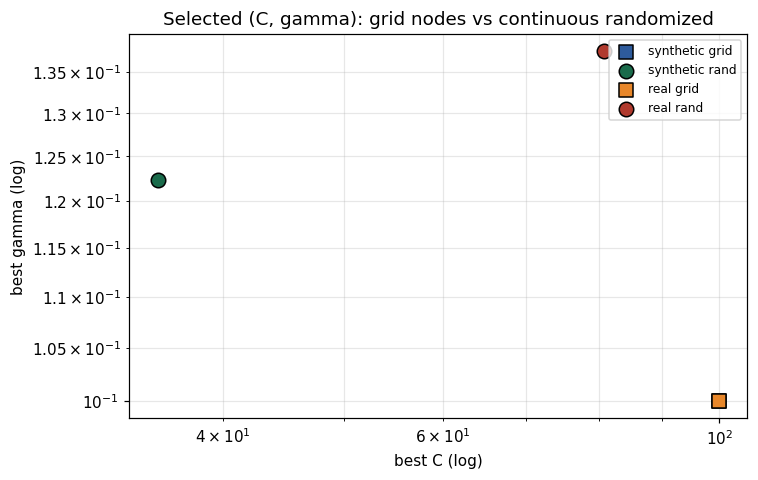
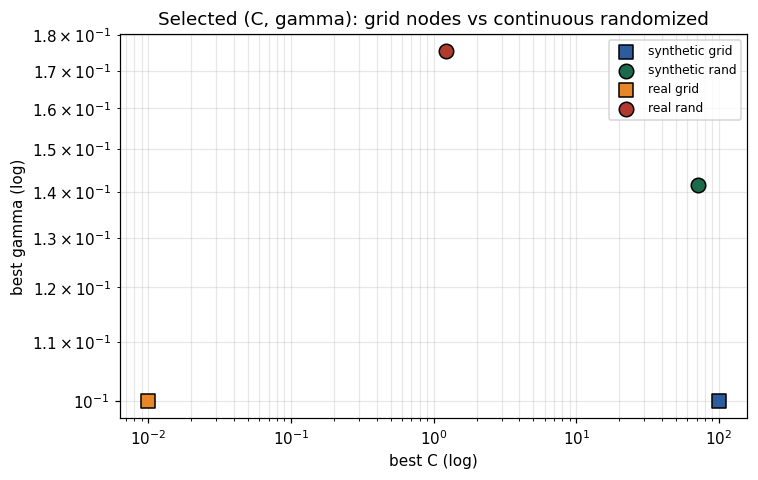
Ch09: fix RandomizedSearchCV/BaggingClassifier non-reproducibility
clfHyperFit had no random_state parameter, so RandomizedSearchCV's
draws and BaggingClassifier's bootstrap sampling relied on global RNG
state -- passing random_state=0 at the call site silently landed in
**fit_params and did nothing. Same class of bug as the Ch13 OTR fix
(np.random.seed had no effect on code defaulting to a different RNG).

Added explicit random_state param, threaded into both RandomizedSearchCV
and BaggingClassifier. Verified: two consecutive real-machine runs of
chapter_9_hyper_parameter_tuning.py now produce byte-identical C/gamma
for both the synthetic and real (post-Ch19-enrichment) demos. 17/17
tests still pass.

diff --git a/ch09/hyper_parameter_tuning/hyper_parameter_tuning.py b/ch09/hyper_parameter_tuning/hyper_parameter_tuning.py
@@ -130,7 +130,7 @@ def _pick_scoring(lbl):
 
 def clfHyperFit(feat, lbl, t1, pipe_clf, param_grid, cv=3,
                 bagging=(0, None, 1.), rndSearchIter=0, n_jobs=-1,
-                pctEmbargo=0., **fit_params):
+                pctEmbargo=0., random_state=None, **fit_params):
     # NOTE: book default is a LIST [0, None, 1.]; we use a tuple to avoid a
     # mutable default (never mutated here, so behaviour is identical).
     """AFML snippets 9.1 + 9.2: hyper-parameter search over a PURGED inner CV.
@@ -158,6 +158,11 @@ def clfHyperFit(feat, lbl, t1, pipe_clf, param_grid, cv=3,
         0 -> GridSearchCV. >0 -> RandomizedSearchCV with this many draws.
     n_jobs : int, default=-1
     pctEmbargo : float, default=0.
+    random_state : int, numpy.random.Generator, or None, default=None
+        Seeds RandomizedSearchCV's draws and BaggingClassifier's bootstrap
+        sampling. Per project convention (Ch09 SVC, Ch13 OTR): any code that
+        draws random numbers takes an explicit random_state rather than
+        relying on global RNG state.
     **fit_params
         Forwarded to ``.fit``. To weight the fit, pass
         ``{final_step_name}__sample_weight=w`` (e.g. ``svc__sample_weight=w``);
@@ -181,7 +186,7 @@ def clfHyperFit(feat, lbl, t1, pipe_clf, param_grid, cv=3,
     else:
         gs = RandomizedSearchCV(estimator=pipe_clf, param_distributions=param_grid,
                                 scoring=scoring, cv=inner_cv, n_jobs=n_jobs,
-                                n_iter=rndSearchIter)
+                                n_iter=rndSearchIter, random_state=random_state)
 
     gs = gs.fit(feat, lbl, **fit_params).best_estimator_  # a fitted Pipeline
 
@@ -193,7 +198,8 @@ def clfHyperFit(feat, lbl, t1, pipe_clf, param_grid, cv=3,
             n_estimators=int(bagging[0]),
             max_samples=float(bagging[1]),           # bagging tuple = (n_est, max_samples, max_features), per book 9.1/9.3
             max_features=float(bagging[2]),          # LOAD-BEARING (max_samples): see header
-            n_jobs=n_jobs)
+            n_jobs=n_jobs,
+            random_state=random_state)               # (random_state fix, July 20 session)
         sw_key = final_name + '__sample_weight'
         if sw_key in fit_params:                      # (fix 5) guard the lookup
             bag = bag.fit(feat, lbl, sample_weight=fit_params[sw_key])

diff --git a/ch09/hyper_parameter_tuning/chapter_9_hyper_parameter_tuning.py b/ch09/hyper_parameter_tuning/chapter_9_hyper_parameter_tuning.py
@@ -113,6 +113,7 @@ def demo_synthetic():
         param_grid={'svc__C': logUniform(*C_RANGE),
                     'svc__gamma': logUniform(*GAMMA_RANGE)},
         cv=CV_SPLITS, rndSearchIter=RND_ITER, n_jobs=N_JOBS,
+        random_state=0,
         svc__sample_weight=w.values)
     rC, rG = rnd_best.named_steps['svc'].C, rnd_best.named_steps['svc'].gamma
     print(f'  RandomizedSearchCV best -> C={rC:.4g}, gamma={rG:.4g} '
@@ -183,6 +184,7 @@ def demo_real():
         param_grid={'svc__C': logUniform(*C_RANGE),
                     'svc__gamma': logUniform(*GAMMA_RANGE)},
         cv=CV_SPLITS, pctEmbargo=0.12, rndSearchIter=RND_ITER, n_jobs=N_JOBS,
+        random_state=0,
         svc__sample_weight=w.values)
     rC, rG = rnd_best.named_steps['svc'].C, rnd_best.named_steps['svc'].gamma
     print(f'  RandomizedSearchCV best -> C={rC:.4g}, gamma={rG:.4g}\n')